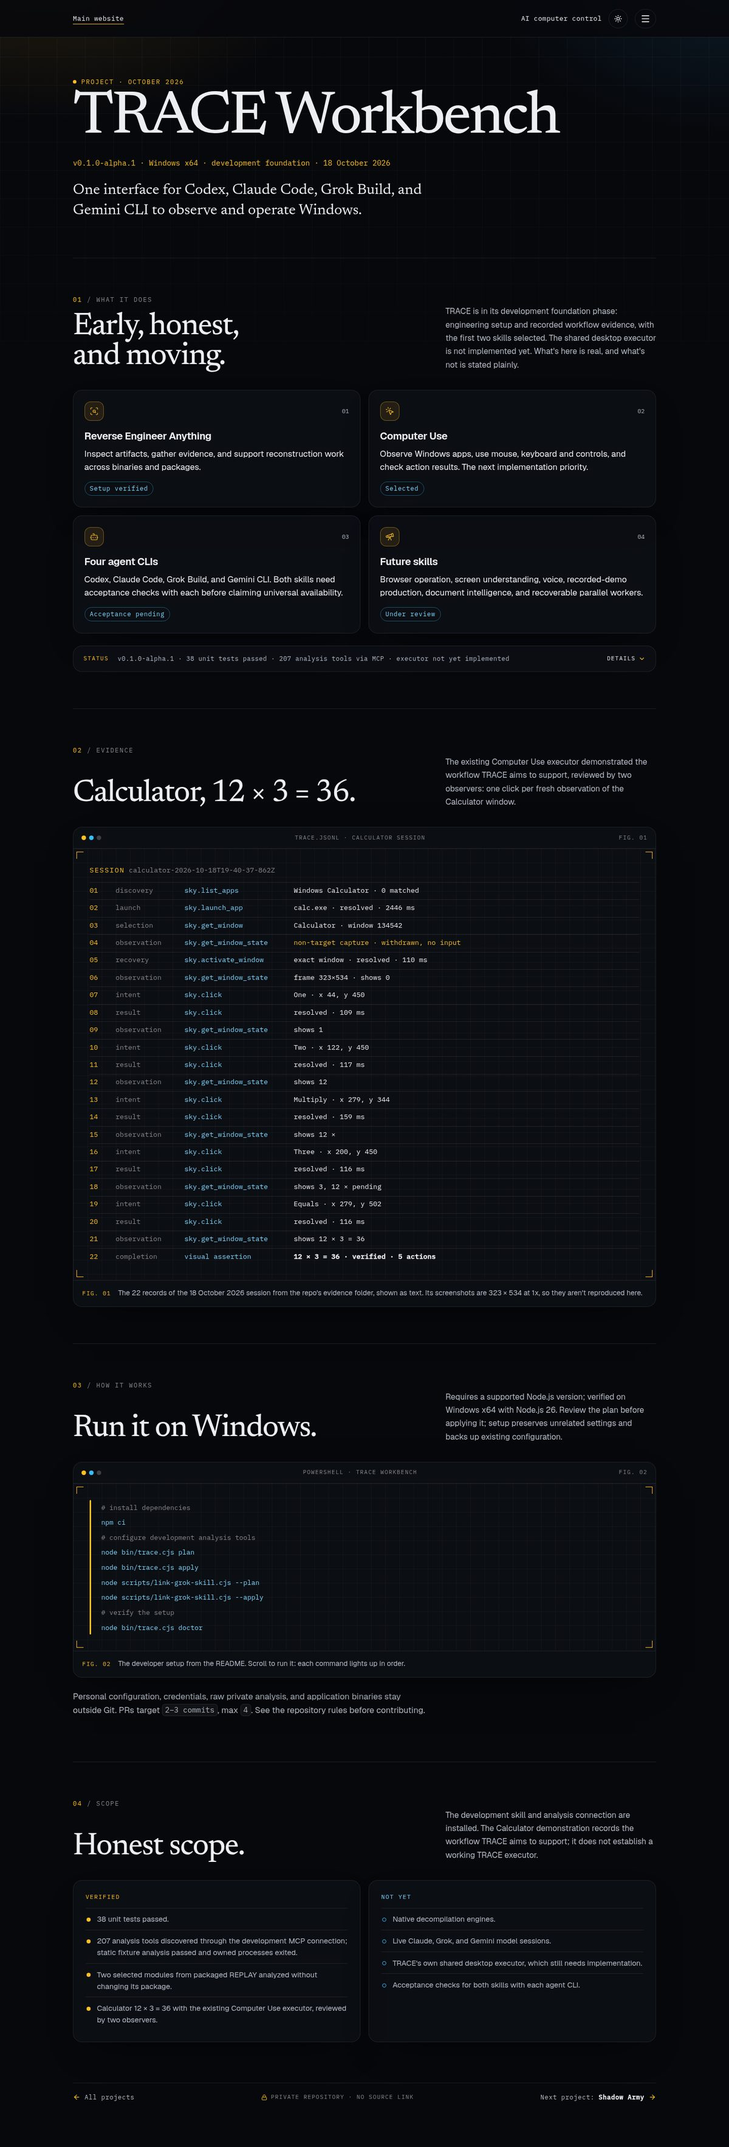
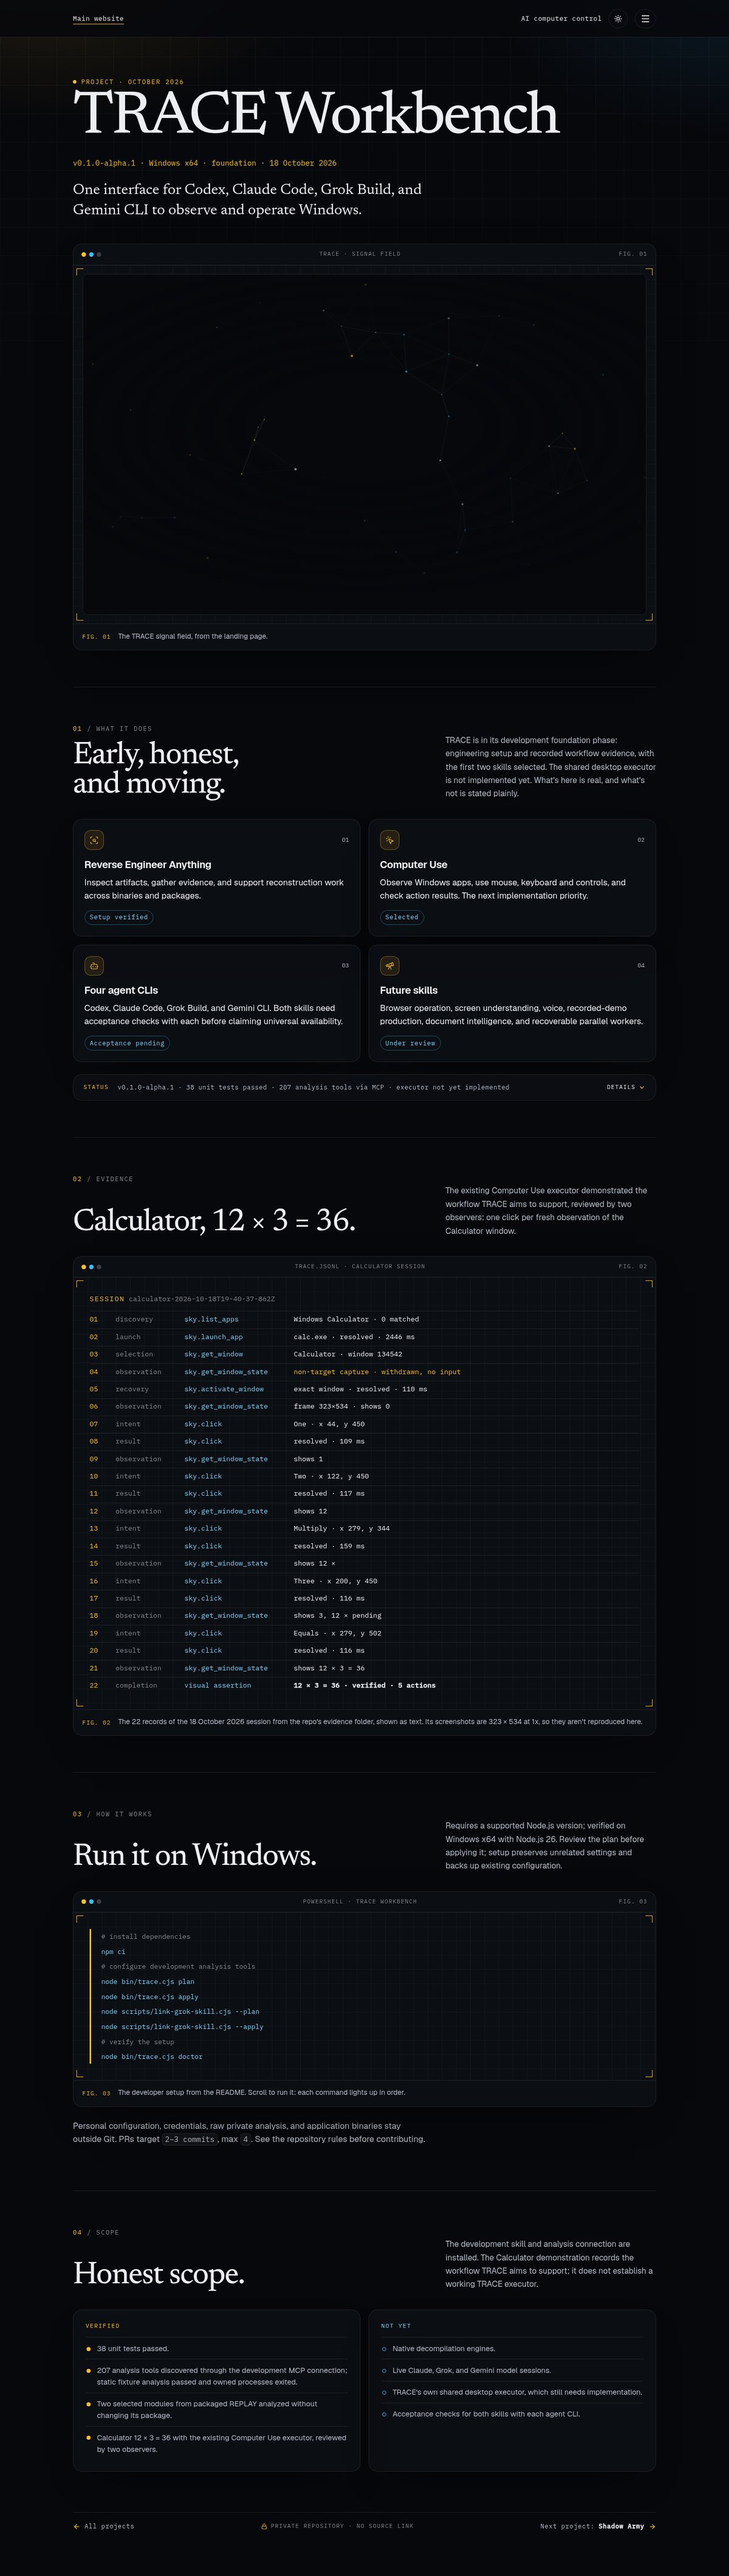
[F9] Add the TRACE signal field as the hero figure
Port the landing page's particle canvas to a React client component inside the shared hero Frame (Fig. 01), at the 2560x1544 aspect of the /switchyard and /replay-studio hero figures. It follows the theme, draws at devicePixelRatio, pauses off-screen and in hidden tabs, respawns on resize, and holds a seeded still frame under reduced motion. Renumber the evidence log to Fig. 02 and the setup run to Fig. 03, and shorten the version status to foundation.

diff --git a/website-template/builds/trace-workbench/SignalFieldFigure.tsx b/website-template/builds/trace-workbench/SignalFieldFigure.tsx
@@ -1,0 +1,207 @@
+"use client";
+
+import { useEffect, useRef } from "react";
+
+/* The signal field from the TRACE landing page (trace-workbench site/index.html at
+ * 11e5a96), ported to React for the hero figure. Same palettes, particle count,
+ * speeds, link distance and pointer repel. Differences, all for the frame:
+ * - it is sized by the figure, not the viewport, and respawns when that size changes;
+ * - particles come from a seeded generator, so the reduced-motion still is the same
+ *   frame on every visit;
+ * - it redraws when the site theme flips, since the page has no field-specific toggle. */
+
+const PALETTES = {
+  dark: { dots: ["251,191,36", "56,189,248", "230,235,242"], link: "179,186,198" },
+  light: { dots: ["217,119,6", "2,132,199", "51,65,85"], link: "58,67,81" },
+} as const;
+
+const LINK_DIST = 130;
+const MOUSE_DIST = 170;
+
+type Particle = { x: number; y: number; vx: number; vy: number; r: number; tone: 0 | 1 | 2 };
+
+function seeded(seed: number) {
+  let a = seed >>> 0;
+  return () => {
+    a = (a + 0x6d2b79f5) >>> 0;
+    let t = a;
+    t = Math.imul(t ^ (t >>> 15), t | 1);
+    t ^= t + Math.imul(t ^ (t >>> 7), t | 61);
+    return ((t ^ (t >>> 14)) >>> 0) / 4294967296;
+  };
+}
+
+export function SignalFieldFigure() {
+  const wrapRef = useRef<HTMLDivElement>(null);
+  const canvasRef = useRef<HTMLCanvasElement>(null);
+
+  useEffect(() => {
+    const wrap = wrapRef.current;
+    const canvas = canvasRef.current;
+    const ctx = canvas?.getContext("2d");
+    if (!wrap || !canvas || !ctx) return;
+
+    const root = document.documentElement;
+    const reduce = window.matchMedia("(prefers-reduced-motion: reduce)");
+    let W = 0;
+    let H = 0;
+    let particles: Particle[] = [];
+    const mouse = { x: -9999, y: -9999 };
+    let visible = true;
+    let running = false;
+    let raf = 0;
+
+    const spawn = (n: number) => {
+      const rand = seeded(0x7ace);
+      particles = Array.from({ length: n }, () => {
+        const roll = rand();
+        return {
+          x: rand() * W,
+          y: rand() * H,
+          vx: (rand() - 0.5) * 0.45,
+          vy: (rand() - 0.5) * 0.45,
+          r: rand() * 1.8 + 0.6,
+          tone: roll < 0.28 ? 0 : roll < 0.7 ? 1 : 2,
+        };
+      });
+    };
+
+    const draw = () => {
+      const pal = PALETTES[root.dataset.theme === "light" ? "light" : "dark"];
+      ctx.clearRect(0, 0, W, H);
+      for (const p of particles) {
+        ctx.beginPath();
+        ctx.arc(p.x, p.y, p.r, 0, Math.PI * 2);
+        ctx.fillStyle = `rgba(${pal.dots[p.tone]},${p.tone === 0 ? 0.8 : 0.6})`;
+        ctx.fill();
+      }
+      ctx.lineWidth = 1;
+      for (let i = 0; i < particles.length; i++) {
+        for (let j = i + 1; j < particles.length; j++) {
+          const p = particles[i];
+          const q = particles[j];
+          const dx = p.x - q.x;
+          const dy = p.y - q.y;
+          const d = dx * dx + dy * dy;
+          if (d < LINK_DIST * LINK_DIST) {
+            ctx.beginPath();
+            ctx.moveTo(p.x, p.y);
+            ctx.lineTo(q.x, q.y);
+            ctx.strokeStyle = `rgba(${pal.link},${(0.16 * (1 - d / (LINK_DIST * LINK_DIST))).toFixed(3)})`;
+            ctx.stroke();
+          }
+        }
+      }
+    };
+
+    const move = () => {
+      for (const p of particles) {
+        const dx = p.x - mouse.x;
+        const dy = p.y - mouse.y;
+        const d = Math.sqrt(dx * dx + dy * dy);
+        if (d < MOUSE_DIST && d > 1) {
+          p.x += (dx / d) * 0.7;
+          p.y += (dy / d) * 0.7;
+        }
+        p.x += p.vx;
+        p.y += p.vy;
+        if (p.x < -20) p.x = W + 20;
+        else if (p.x > W + 20) p.x = -20;
+        if (p.y < -20) p.y = H + 20;
+        else if (p.y > H + 20) p.y = -20;
+      }
+    };
+
+    const frame = () => {
+      move();
+      draw();
+      raf = requestAnimationFrame(frame);
+    };
+
+    /* Animate only with full motion, while the figure is on screen and the tab is visible.
+     * Otherwise the field holds one still frame. */
+    const update = () => {
+      const should = !reduce.matches && visible && !document.hidden;
+      if (should && !running) {
+        running = true;
+        raf = requestAnimationFrame(frame);
+      } else if (!should && running) {
+        running = false;
+        cancelAnimationFrame(raf);
+        draw();
+      }
+    };
+
+    const resize = () => {
+      const dpr = Math.min(window.devicePixelRatio || 1, 2);
+      W = wrap.clientWidth;
+      H = wrap.clientHeight;
+      canvas.width = Math.round(W * dpr);
+      canvas.height = Math.round(H * dpr);
+      ctx.setTransform(dpr, 0, 0, dpr, 0, 0);
+      spawn(Math.round(Math.min(90, Math.max(40, (W * H) / 14000))));
+      draw();
+    };
+
+    let lastW = -1;
+    let lastH = -1;
+    const sizer = new ResizeObserver(() => {
+      if (wrap.clientWidth === lastW && wrap.clientHeight === lastH) return;
+      lastW = wrap.clientWidth;
+      lastH = wrap.clientHeight;
+      resize();
+    });
+    sizer.observe(wrap);
+
+    const onMove = (e: PointerEvent) => {
+      const r = canvas.getBoundingClientRect();
+      mouse.x = e.clientX - r.left;
+      mouse.y = e.clientY - r.top;
+    };
+    const onLeave = () => {
+      mouse.x = -9999;
+      mouse.y = -9999;
+    };
+    wrap.addEventListener("pointermove", onMove);
+    wrap.addEventListener("pointerleave", onLeave);
+
+    const seen = new IntersectionObserver((entries) => {
+      visible = entries[0].isIntersecting;
+      update();
+    });
+    seen.observe(wrap);
+
+    const themed = new MutationObserver(() => {
+      if (!running) draw();
+    });
+    themed.observe(root, { attributes: true, attributeFilter: ["data-theme"] });
+
+    document.addEventListener("visibilitychange", update);
+    reduce.addEventListener("change", update);
+    resize();
+    update();
+
+    return () => {
+      cancelAnimationFrame(raf);
+      sizer.disconnect();
+      seen.disconnect();
+      themed.disconnect();
+      wrap.removeEventListener("pointermove", onMove);
+      wrap.removeEventListener("pointerleave", onLeave);
+      document.removeEventListener("visibilitychange", update);
+      reduce.removeEventListener("change", update);
+    };
+  }, []);
+
+  return (
+    <div
+      ref={wrapRef}
+      className="tw-field"
+      data-signal-field
+      role="img"
+      aria-label="The TRACE signal field: amber, sky and grey particles drift across the frame and link with faint lines when they pass close to each other."
+    >
+      <canvas ref={canvasRef} aria-hidden="true" />
+    </div>
+  );
+}

diff --git a/website-template/builds/trace-workbench/TraceWorkbenchPage.tsx b/website-template/builds/trace-workbench/TraceWorkbenchPage.tsx
@@ -2,12 +2,14 @@ import { Bot, MousePointerClick, ScanSearch, Telescope } from "lucide-react";
 import { ProjectFooter } from "../project-footer/ProjectFooter";
 import { DetailHero, DetailShell, FeatureGrid, Frame, Ledger, Section, Stats, StatusDetails, type Feature } from "../project-detail/ProjectDetail";
 import { LOG, SESSION } from "./evidence";
+import { SignalFieldFigure } from "./SignalFieldFigure";
 import { TraceMotion } from "./TraceMotion";
 
 /* The TRACE Workbench landing page (trace-workbench PR #4, site/index.html at 1db13de)
  * rebuilt in the shared project-detail layout as live text. Copy comes from PR #4,
  * README.md and SKILLS.md on docs/advanced-capabilities, minus two lines they don't
  * support ("built in the open, verified step by step" and "0 shortcuts taken"). The
+ * hero figure is the landing page's signal field, ported to a canvas component. The
  * evidence log is the repo's recorded Calculator trace (see evidence.ts). There are no
  * screenshots: TRACE has no window of its own yet, and the only real-app captures in the
  * repo (the Calculator evidence frames) are 323 x 534 at 1x. See BRIEF.md. */
@@ -104,9 +106,13 @@ export function TraceWorkbenchPage() {
         <DetailHero
           kicker="Project · October 2026"
           title="TRACE Workbench"
-          status="v0.1.0-alpha.1 · Windows x64 · development foundation · 18 October 2026"
+          status="v0.1.0-alpha.1 · Windows x64 · foundation · 18 October 2026"
           lead="One interface for Codex, Claude Code, Grok Build, and Gemini CLI to observe and operate Windows."
-        />
+        >
+          <Frame chrome="TRACE · signal field" figure="Fig. 01" caption="The TRACE signal field, from the landing page.">
+            <SignalFieldFigure />
+          </Frame>
+        </DetailHero>
 
         <Section
           id="skills"
@@ -137,7 +143,7 @@ export function TraceWorkbenchPage() {
         >
           <Frame
             chrome="trace.jsonl · calculator session"
-            figure="Fig. 01"
+            figure="Fig. 02"
             caption="The 22 records of the 18 October 2026 session from the repo's evidence folder, shown as text. Its screenshots are 323 × 534 at 1x, so they aren't reproduced here."
           >
             <EvidenceLog />
@@ -153,7 +159,7 @@ export function TraceWorkbenchPage() {
         >
           <Frame
             chrome="powershell · trace workbench"
-            figure="Fig. 02"
+            figure="Fig. 03"
             caption="The developer setup from the README. Scroll to run it: each command lights up in order."
           >
             <SetupRun />

diff --git a/website-template/builds/trace-workbench/trace.css b/website-template/builds/trace-workbench/trace.css
@@ -126,3 +126,33 @@
     grid-column: 2;
   }
 }
+
+/* Fig. 01: the landing page's signal field, in the hero frame. Same box as the
+ * hero screenshots on /switchyard and /replay-studio: full frame width, their
+ * 2560 x 1544 aspect, and the shared image border and radius. */
+.tw-field {
+  position: relative;
+  display: block;
+  width: 100%;
+  aspect-ratio: 2560 / 1544;
+  overflow: hidden;
+  border: 1px solid var(--line);
+  border-radius: 10px;
+  background: var(--bg);
+}
+
+.tw-field canvas {
+  position: absolute;
+  inset: 0;
+  width: 100%;
+  height: 100%;
+}
+
+/* The landing page's vignette, so the field fades into the page colour at the edges. */
+.tw-field::after {
+  content: "";
+  position: absolute;
+  inset: 0;
+  pointer-events: none;
+  background: radial-gradient(ellipse 70% 55% at 50% 45%, transparent 30%, var(--bg) 92%);
+}

diff --git a/website-template/builds/trace-workbench/BRIEF.md b/website-template/builds/trace-workbench/BRIEF.md
@@ -9,10 +9,11 @@ Stations 1–3 merged (METHODS: section builds may merge). Route `/trace-workben
 - **Audience:** recruiters and engineers coming from the Work section or the site menu.
 - **One message:** TRACE Workbench is one interface for Codex, Claude Code, Grok Build, and Gemini CLI to observe and operate Windows. It is early: engineering setup and recorded workflow evidence, with the first two skills selected.
 - **What the page is:** the TRACE landing page (trace-workbench PR #4, `site/index.html` at `1db13de`), rebuilt natively in the shared project-detail layout as live text (owner request and the PR #18 review, 2026-10-18). It has the same four-section rhythm as /switchyard and /replay-studio:
-  - The hero (eyebrow, title, version line, pitch) is `DetailHero`. The version line follows the house format: `v0.1.0-alpha.1 · Windows x64 · development foundation · 18 October 2026` (package.json, checks.json `win32`/`x64`, and the evidence date).
+  - The hero (eyebrow, title, version line, pitch) is `DetailHero`. The version line follows the house format: `v0.1.0-alpha.1 · Windows x64 · foundation · 18 October 2026` (package.json, checks.json `win32`/`x64`, and the evidence date; "foundation" is short for the README's "development foundation").
+  - Its Fig. 01 is the landing page's signal field, ported to `SignalFieldFigure.tsx` (a canvas client component) inside the shared `Frame`, at the hero figures' 2560 × 1544 aspect. It follows the theme tokens, draws at devicePixelRatio (capped at 2), pauses off-screen and in a hidden tab, respawns when the frame resizes, and holds one seeded still frame under reduced motion.
   - "01 What it does" is PR #4's "Status" section. It has a four-card `FeatureGrid`: the two skills from PR #4 and SKILLS.md, the four agent CLIs (README, SKILLS.md), and the future skills under review (SKILLS.md). Its stats go in `StatusDetails` with `Stats`.
-  - "02 Evidence" is Fig. 01: the recorded Calculator session (`evidence/0.1.0-alpha.1/computer-use/trace.jsonl`, 22 records) as a text log inside the shared `Frame`. The rows are condensed from each record's fields, and the display values come from `independent-review.json`. See `evidence.ts`.
-  - "03 How it works" is PR #4's "Setup" section, with its terminal as Fig. 02 in a `Frame` and its rules line in `.pd-copy`.
+  - "02 Evidence" is Fig. 02: the recorded Calculator session (`evidence/0.1.0-alpha.1/computer-use/trace.jsonl`, 22 records) as a text log inside the shared `Frame`. The rows are condensed from each record's fields, and the display values come from `independent-review.json`. See `evidence.ts`.
+  - "03 How it works" is PR #4's "Setup" section, with its terminal as Fig. 03 in a `Frame` and its rules line in `.pd-copy`.
   - "04 Scope" is PR #4's "Honest scope" note, as a `Ledger` of what is verified and what isn't yet (README "Verified" and "Scope", SKILLS.md).
   - The footer is `ProjectFooter`.
 - **Copy:** from PR #4, README.md and SKILLS.md (on `docs/advanced-capabilities`, 0.1.0-alpha.1), minus two lines they don't support. One is "built in the open, verified step by step" (the repo is private). The other is the "0 shortcuts taken in verification" stat. Its slot in the four-stat grid holds a README fact instead: two REPLAY modules analyzed without changing the package. PR #4 drops the same two lines. Nothing is invented, and there is no `[[placeholder]]` copy.
@@ -20,9 +21,9 @@ Stations 1–3 merged (METHODS: section builds may merge). Route `/trace-workben
 - **No screenshots:** figures may only be crisp 2x captures of TRACE actually working, never a webpage screenshot.
   - TRACE has no app window yet; its executor is not implemented.
   - The only real-app captures in the repo are the six Calculator evidence frames in `evidence/0.1.0-alpha.1/computer-use/frames/`, which are 323 × 534 at 1x. A fresh 2x capture would not be that recorded evidence, and it needs the Windows machine.
-  - So the landing-page screenshots and the Calculator frames were removed, and `media/` is gone. Both figures are live text in the shared `Frame`, so they follow the light and dark themes.
+  - So the landing-page screenshots and the Calculator frames were removed, and `media/` is gone. All three figures are drawn live (a canvas and two text figures) in the shared `Frame`, so they follow the light and dark themes.
 - **No demo video:** there is no recording of TRACE itself.
-- **Motion budget:** calm plus one signature move. That means reveals, split headings and word scrub, plus the setup run. There is no particle field on the detail page; the homepage has this project's `trace` formation.
+- **Motion budget:** calm plus one signature move. That means reveals, split headings and word scrub, plus the setup run. The hero's signal field is the landing page's ambient drift, kept to its frame; the homepage has this project's `trace` formation.
 
 ## Overrides of RULES.md (user instruction wins, recorded here)
 
@@ -41,7 +42,7 @@ Stations 1–3 merged (METHODS: section builds may merge). Route `/trace-workben
   - Progress drives `--t` (the amber rail's fill). It also sets `.is-dim` on each comment and command line until progress reaches that line's `data-at` cue: 0.02 / 0.06 / 0.20 / 0.26 / 0.40 / 0.54 / 0.68 / 0.80 / 0.86.
   - Static state: the rail is full and every line is lit.
 - `project-detail/no-intro.ts` turns off the first-visit intro hold.
-- `trace.css` holds only the evidence log and the setup run, inside their Frames. Everything else is shared CSS.
+- `trace.css` holds only the signal field, the evidence log and the setup run, inside their Frames. Everything else is shared CSS.
 
 ## Homepage formation
 

diff --git a/docs/pr-assets/pr18/README.md b/docs/pr-assets/pr18/README.md
@@ -6,6 +6,6 @@ Screenshots for the TRACE Workbench project page and its homepage wiring. Produc
   - `before/` is `grok/add-replay-studio-switchyard` at `7d87e2c` (PR #17 head). The Work section has five projects, the mobile menu has no TRACE entry, and Switchyard's "Next project" goes to Shadow Army.
   - `after/` has the sixth Work project with its `trace` formation (SVG and live particles), the menu entry, and Switchyard → TRACE Workbench in the footer cycle.
 - `trace-page-before/`: `/trace-workbench` at `5bf77de`. It framed screenshots of the PR #4 landing page and two 1x Calculator frames.
-- `trace-page-after/`: `/trace-workbench` after the review. It is the PR #4 landing page rebuilt in the shared project-detail layout as live text: hero, 01 What it does (four cards), 02 Evidence (the recorded Calculator trace, Fig. 01), 03 How it works (the setup run, Fig. 02) and 04 Scope. There are no screenshots. `menu-mobile-390.jpg` shows the page's menu with the short "TRACE" label on one line. `switchyard-reference-*` shows `/switchyard` captured the same way for comparison. At 390 px the bar label is now hidden on every project page.
+- `trace-page-after/`: `/trace-workbench` after the review. It is the PR #4 landing page rebuilt in the shared project-detail layout as live text: hero, 01 What it does (four cards), 02 Evidence (the recorded Calculator trace, Fig. 02), 03 How it works (the setup run, Fig. 03) and 04 Scope. There are no screenshots. `hero-{dark,light}-reduced-{desktop-1440,mobile-390}.jpg` are 2x captures of the hero, with Fig. 01 (the landing page's signal field, drawn live on a canvas). The figures are renumbered: Fig. 02 is the evidence log and Fig. 03 the setup run. `menu-mobile-390.jpg` shows the page's menu with the short "TRACE" label on one line. `switchyard-reference-*` shows `/switchyard` captured the same way for comparison. At 390 px the bar label is now hidden on every project page.
 - `after/menu-mobile-390.jpg` is the homepage menu with the same short label.
 - `alignment.md`: the left edge, width and computed styles of each shared block on `/trace-workbench` against `/switchyard`, at 1440 and 390 px. It is generated by a Playwright script that reads `getBoundingClientRect()` and `getComputedStyle()` for each block.
